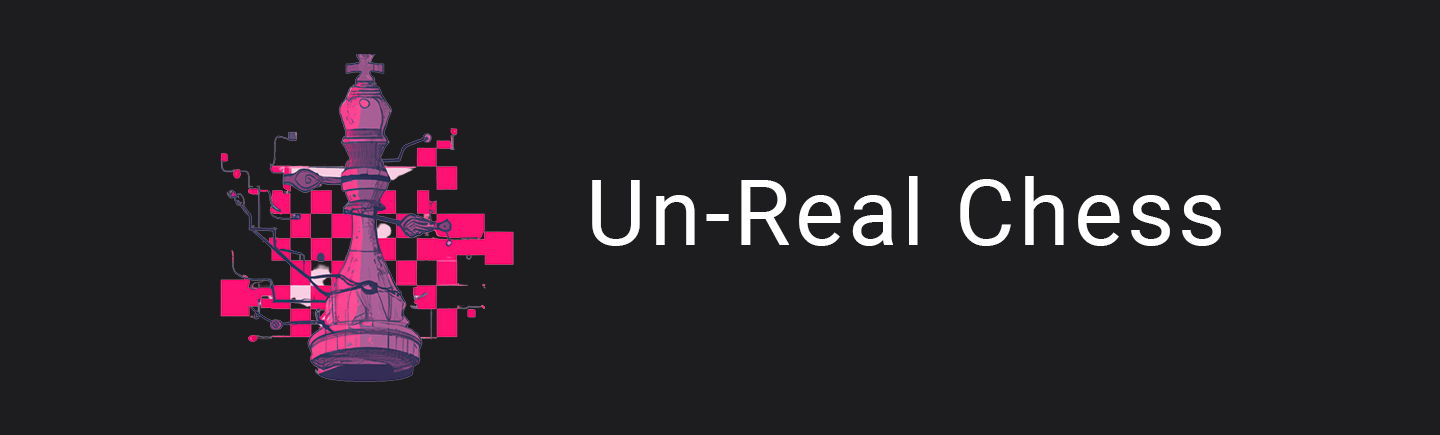
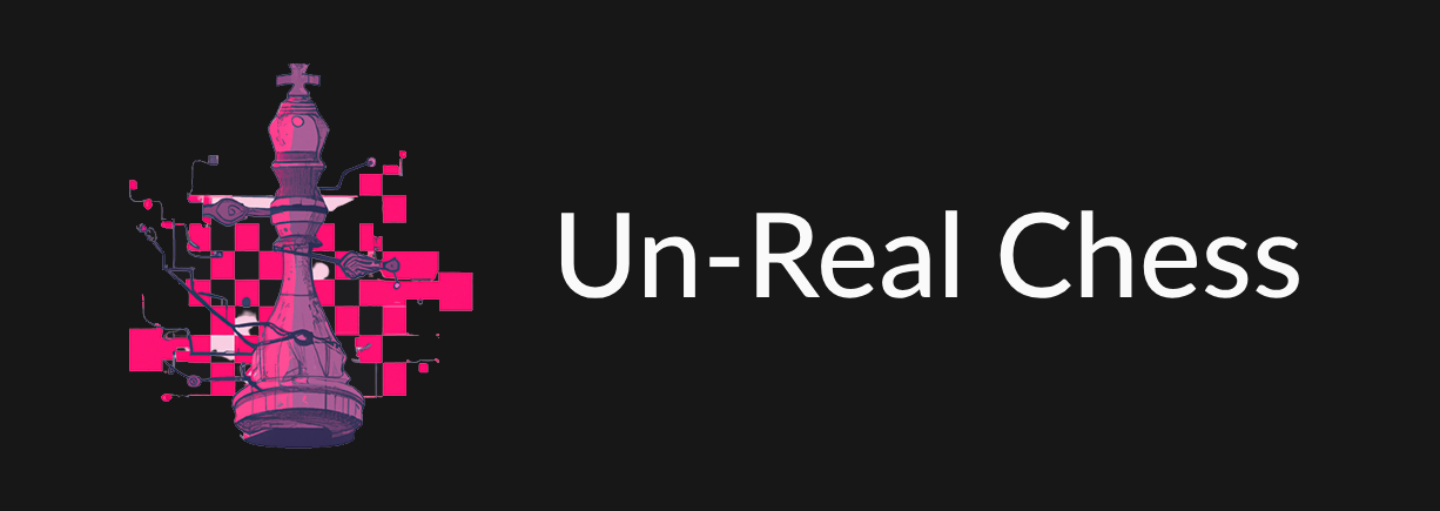
Updated metadata images and Readme

Changed region(s): [[0.0625, 0.1195, 0.9062, 0.8966], [0.125, 0.2989, 0.1562, 0.3287]]

diff --git a/README.md b/README.md
@@ -1,14 +1,15 @@
-# [unrealchess.web.app](https://unrealchess.web.app/)
-<p align="center">
-  <img src="https://github.com/dfdiazc/chess-engine-interface/blob/main/unrealchess_logo.png?raw=true">
-</p>
+# [unrealchess.vercel.app](https://unrealchess.vercel.app/)
+
+[![Un-Real Chess Logo](https://github.com/dfdiazc/chess-engine-interface/blob/dev/unrealchess-logo.png?raw=true)](https://unrealchess.vercel.app/)
 
 Un-Real Chess is an online, free platform where you can play chess against the best chess engines in the world.
 
-It features an Elo and Skill Level selectors for engines that provide it and a simple yet clean web interface where you can focus on improving you chess skills.
+It features engines like Stockfish, Leela, and Komodo, among many others, giving freedom to the player to fine tune their skills against each one.
 
-## Tech Details
+The app, aside from providing standard chess functionalities, also includes many other features such as move recommendations and a customizable UI as to provide each player with the tools to make each game their own.
 
-The web frontend was made using React, while the backend uses Django to serve a REST API.
+## Stack Details
 
-The [react-chessboard](https://www.npmjs.com/package/react-chessboard) and [chess.js](https://www.npmjs.com/package/chess.js) were used to implement the web interaction and validation within the game. The backend uses the [python-chess](https://pypi.org/project/chess/) library to provide the corresponding move for each engine.
+The web frontend is built on top of Next.js, using TailwindCSS for styling. The [react-chessboard](https://www.npmjs.com/package/react-chessboard) and [chess.js](https://www.npmjs.com/package/chess.js) libraries are used to implement the interaction and validation within the game.
+
+The backend is built on top of Django to serve a REST API, which uses the [python-chess](https://pypi.org/project/chess/) library to provide the corresponding move for each engine.
